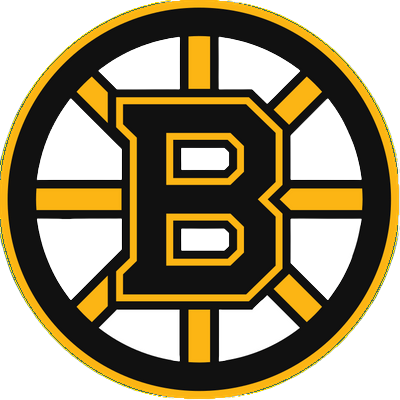
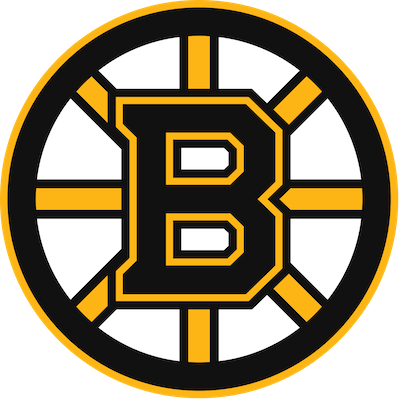
Dark mode mobile (#53)
* fixes to landing page

* fixing bruins logo

diff --git a/src/app/landing/landing.component.css b/src/app/landing/landing.component.css
@@ -14,9 +14,13 @@
   border: 1.5px solid grey;
 }
 
+.slider {
+  color: var(--textColor);
+  background-color: var(--bgColor);
+}
+
 .release-notes {
   padding: 10px;
-  max-height: 100px;
   background-color: var(--bgColor);
 }
 
@@ -124,7 +128,7 @@ mat-large-icon-button {
   gap: 10px;
   align-items: center;
   justify-content: space-around;
-  background-color: #ffbf00ad;
+  background-color: rgb(255 191 0);
   color: black;
   border: 2px solid black;
   border-radius: 20px;
@@ -133,7 +137,7 @@ mat-large-icon-button {
 }
 
 .lucky-player:hover {
-  background-color: #ffbf00;
+  background-color: #fdcf45;
 }
 
 .lucky-subheader {
@@ -171,9 +175,10 @@ mat-large-icon-button {
   gap: 10px;
   width: 350px;
   padding: 15px;
-  margin: 10px;
+  margin: 5px;
   box-shadow: 0 4px 8px rgba(0, 0, 0, 0.1);
   max-width: 800px;
+  border: 1px solid var(--textColor);
 }
 
 .score-bug:hover {
@@ -225,14 +230,16 @@ span {
   font-weight: 700;
 }
 
+.toggle {
+  display: flex;
+  justify-content: center;
+  align-items: center;
+}
+
 @media only screen and (max-width: 768px) {
   .notes-table {
     width: 95%;
     max-height: 375px;
-  }
-
-  .release-notes {
-    max-height: 125px;
   }
 
   .release-widget {
@@ -248,11 +255,13 @@ span {
     width: 95%;
     flex-direction: column;
     align-items: center;
+    align-self: center;
+    gap: 5px;
   }
 }
 
 @media (min-width: 1800px) {
   .twitter-feeds iframe {
-    height: 800px;
+    height: 600px;
   }
 }

diff --git a/src/app/landing/landing.component.ts b/src/app/landing/landing.component.ts
@@ -1,4 +1,4 @@
-import { Component, AfterViewInit, OnInit } from '@angular/core';
+import { Component, AfterViewInit, OnInit, Renderer2 } from '@angular/core';
 import { TeamsService } from '../services/teams.service';
 import { ReleaseNoteModel } from 'src/models/release-note.model';
 import { map, Observable } from 'rxjs';
@@ -25,15 +25,17 @@ export class LandingComponent implements AfterViewInit, OnInit {
   };
   document: Document;
 
+  isDarkMode = localStorage.getItem('theme') === 'dark';
+
   constructor(
     private teamSvc: TeamsService,
     private scoresService: ScoresService,
     private playersService: PlayersService,
-    private route: ActivatedRoute
+    private route: ActivatedRoute,
+    private renderer: Renderer2
   ) {}
 
   ngOnInit(): void {
-    // what does this do?
     gtag('config', 'G-9DLYWS6ZQV', {
       page_path: window.location.pathname,
     });
@@ -50,4 +52,18 @@ export class LandingComponent implements AfterViewInit, OnInit {
   }
 
   ngAfterViewInit(): void {}
+
+  toggleDarkMode() {
+    const savedTheme = localStorage.getItem('theme');
+
+    if (savedTheme === 'dark') {
+      document.body.classList.add('light');
+      document.body.classList.remove('dark');
+      localStorage.setItem('theme', 'light');
+    } else {
+      document.body.classList.add('dark');
+      document.body.classList.remove('light');
+      localStorage.setItem('theme', 'dark');
+    }
+  }
 }

diff --git a/src/app/landing/landing.component.html b/src/app/landing/landing.component.html
@@ -4,6 +4,20 @@
   <span class="release-subheader">
     Your source for clean and colorful NHL analytics.
   </span>
+  <div class="toggle">
+    <mat-slide-toggle
+      [(ngModel)]="isDarkMode"
+      ngDefaultControl
+      labelPosition="before"
+      (change)="toggleDarkMode()">
+      <div style="display: flex; align-items: center; gap: 5px">
+        <span class="slider">Dark Mode</span>
+        <mat-icon class="slider">
+          {{ isDarkMode ? "nights_stay" : "wb_sunny" }}
+        </mat-icon>
+      </div>
+    </mat-slide-toggle>
+  </div>
   <div *ngIf="luckyPlayer$ | async as luckyPlayer" class="lucky-player-widget">
     <span class="lucky-subheader">Your Lucky Player is:</span>
     <a

diff --git a/src/app/nav/nav.component.ts b/src/app/nav/nav.component.ts
@@ -85,20 +85,6 @@ export class NavComponent implements OnInit, OnDestroy {
     this.searchControl.setValue('');
   }
 
-  toggleDarkMode() {
-    const savedTheme = localStorage.getItem('theme');
-
-    if (savedTheme === 'dark') {
-      document.body.classList.add('light');
-      document.body.classList.remove('dark');
-      localStorage.setItem('theme', 'light');
-    } else {
-      document.body.classList.add('dark');
-      document.body.classList.remove('light');
-      localStorage.setItem('theme', 'dark');
-    }
-  }
-
   selectYear(event: Event) {
     const year = (event.target as HTMLInputElement).value;
     this.year = year.toString();

diff --git a/src/app/nav/nav.component.html b/src/app/nav/nav.component.html
@@ -131,15 +131,6 @@
       </div>
     </div>
     <div class="container" style="justify-content: flex-end">
-      <div class="toggle">
-        <mat-slide-toggle
-          [(ngModel)]="isDarkMode"
-          ngDefaultControl
-          labelPosition="before"
-          (change)="toggleDarkMode()">
-          <span style="color: white">Dark Mode</span>
-        </mat-slide-toggle>
-      </div>
       <div class="search-select-height">
         <select class="form-select year-select" (change)="selectYear($event)">
           <option value="null">Year</option>

diff --git a/src/models/game.model.ts b/src/models/game.model.ts
@@ -30,14 +30,13 @@ export const gameTypeMap: { [key: string]: string } = {
   '3': 'Playoffs',
 };
 
-// function changeTimeZone(date: Date, offsetMinutes: number) {
-
-//   return utcTimestamp;
-// }
+export const gameStates: { [key: string]: string } = {
+  OFF: 'Final',
+};
 
 export function setDefaults(model: ScoreCardModel): ScoreCardModel {
   model.startTime = new Date(model.startTime);
   model.gameType = gameTypeMap[model.gameType];
-
+  model.gameState = gameStates[model.gameState] || model.gameState;
   return model;
 }
